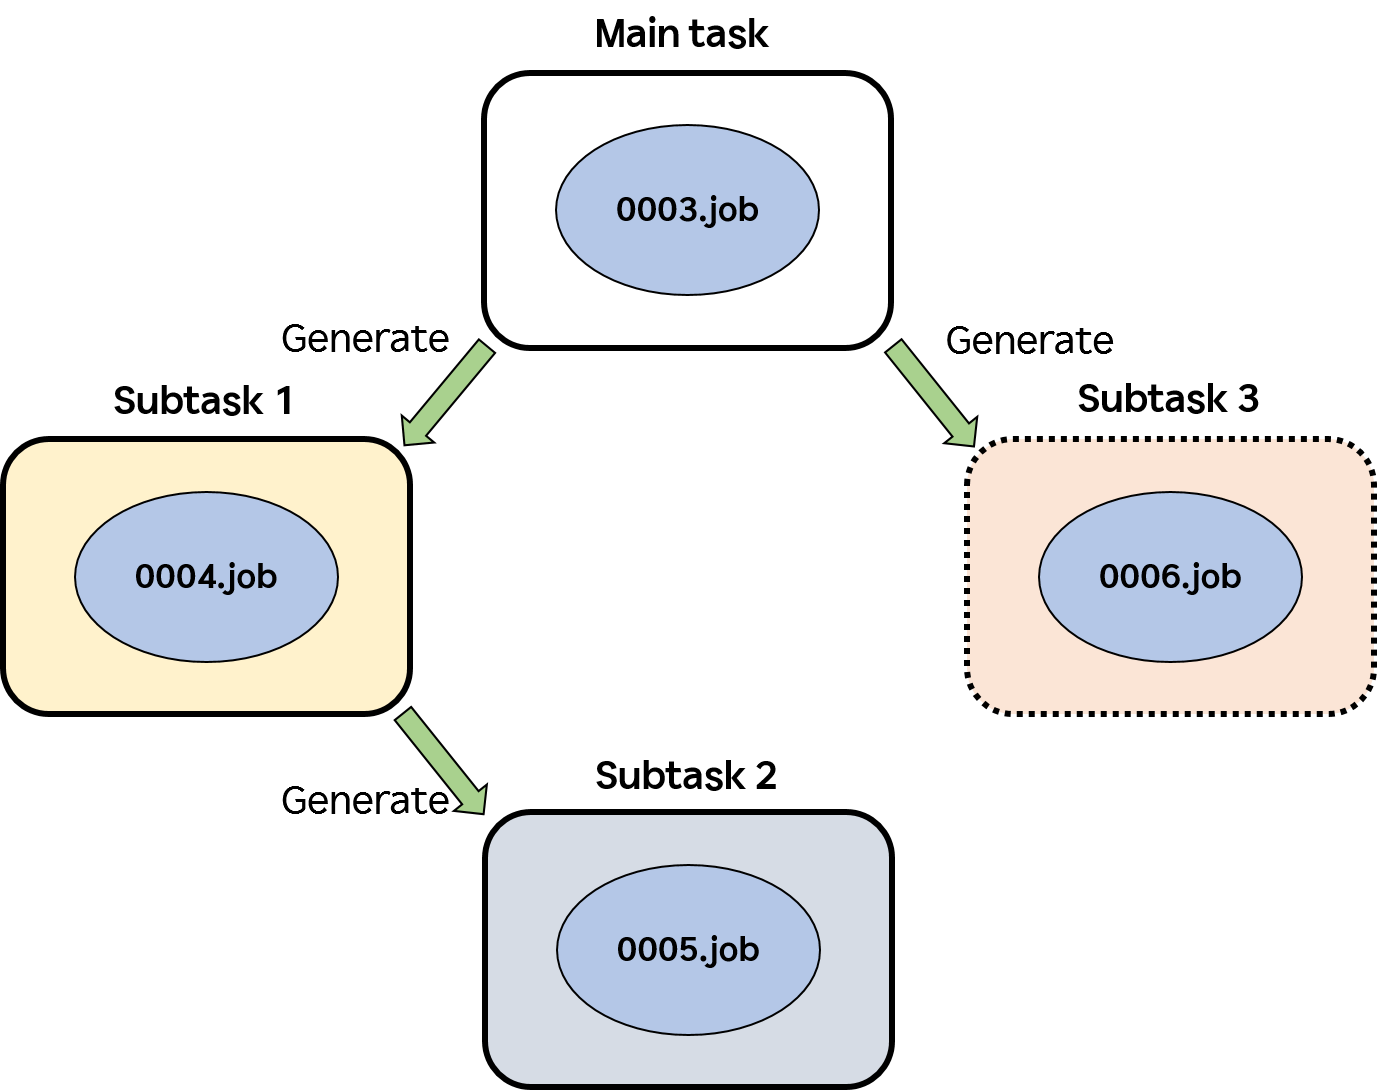
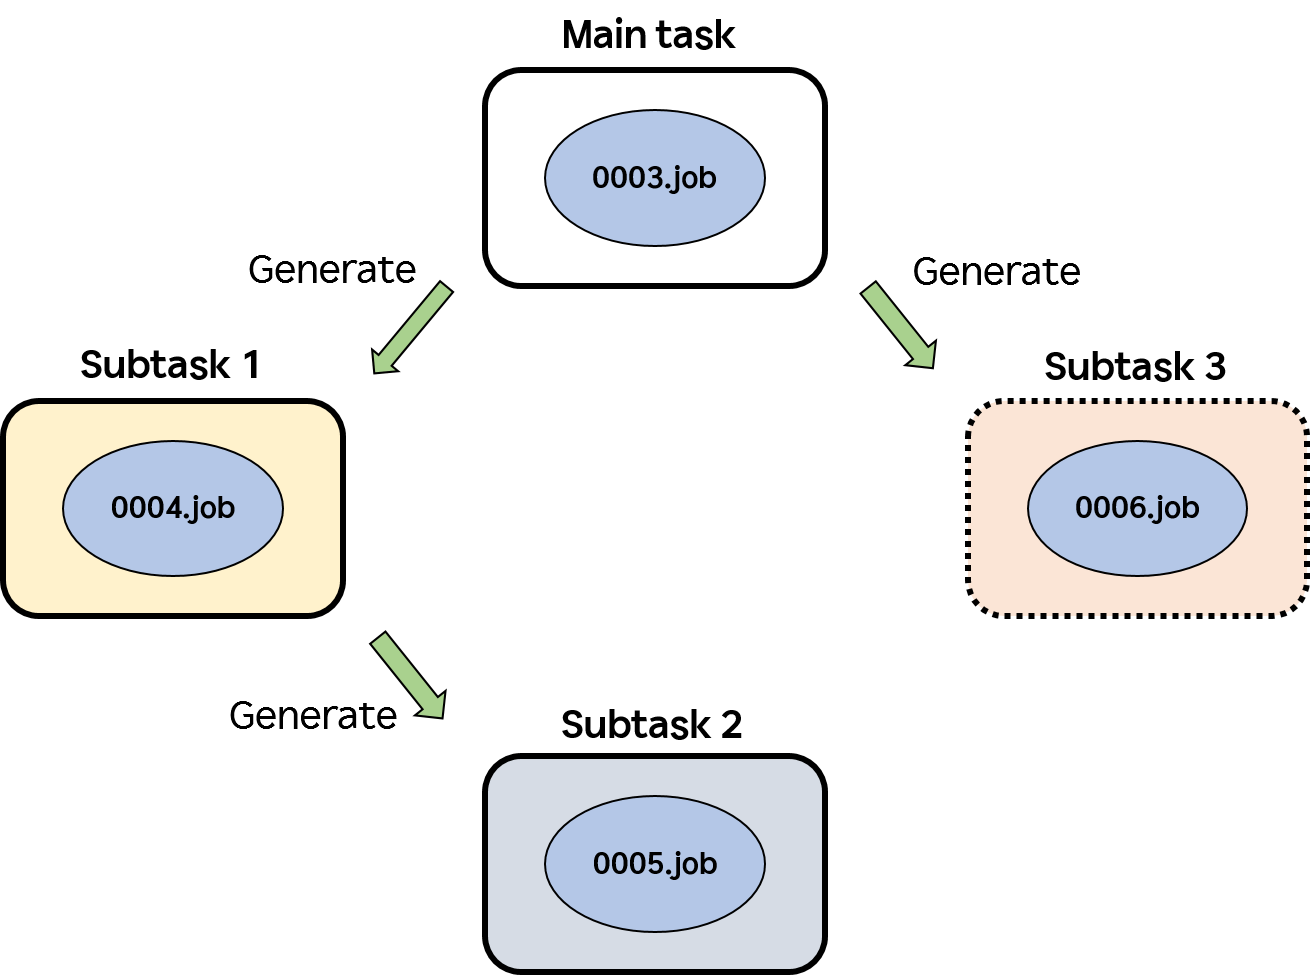
그림크기 수정 및 표 출력 오류 수정

diff --git a/book.md b/book.md
@@ -5,7 +5,7 @@
 [__SOURCE](0-about-this-manual/precautions.md)
 # Precautions
 
-{% include url="https://hrcontentsrelay-bmgae5hdbzapc4bc.koreacentral-01.azurewebsites.net/api/proxy?path=doc-common-pages/en/precautions.md" %}
+{% include file="en/precautions.md" %}
 
 [__SOURCE](1-overview/README.md)
 # 1. Overview
@@ -44,11 +44,8 @@ The terms used in this manual are defined in the table below.
 | Term | Description |
 | --- | --- |
 | Program (job file) | - A job program stored in the controller's non-volatile memory (e.g., 0001.job, 0002.job, 1001.job, etc.). |
-| Main task (Main task) / Sub task 1 ~ 7 (Sub task 1 ~ 7) | - The robot controller's program executor that can load and run job programs.
-- There are 8 tasks in total; each task can load and run only one program at a time. |
-| Main task program / Sub task program | - The specific job program assigned to a task.
-- (Example: If the main task loads 0001.job, the main task program is 0001.job.)
-- A program can be executed only when it is assigned to either the main task or a sub task. |
+| Main task<br>Sub task 1 ~ 7 | -The robot controller's program executor that can load and run job programs.<br>-There are 8 tasks in total; each task can load and run only one program at a time. |
+| Main task program<br>Sub task program | -The specific job program assigned to a task.<br>(Example: If the main task loads 0001.job, the main task program is 0001.job.)<br>-A program can be executed only when it is assigned to either the main task or a sub task. |
 
 [__SOURCE](2-related-function/README.md)
 # 2. Related functions
@@ -57,11 +54,11 @@ The terms used in this manual are defined in the table below.
 # 2.1 Command statements
 
 [__SOURCE](2-related-function/2-1-command-sentence/1-task-start.md)
-# 2.1.1 task start
+# 2.1.1 `task start`
 
 The `task start` statement creates a sub task, assigns a specific job program to it, and starts the sub task program.
 
-The `task start` statement can be entered from **Command Input** → **Other** → **Task**.
+The `task start` statement can be entered from `[Command Input] - [Other] - [Task]`.
 
 ```
 task start,sub=<sub_task_number>,job=<program_number>
@@ -98,7 +95,7 @@ Note: The sub task number to be created must be a different sub task number than
 
 If you attempt to create a sub task with `task start` when that sub task is already created and running, assigning another program to that sub task will result in an error. See the example below.
 
-* <mark style="color:green;">**Error when assigning and starting another program on a running sub task**</mark>
+* <mark style="color:green;">`Error when assigning and starting another program on a running sub task`</mark>
 
 ```
 task start,sub=1,job=11 # subtask 1 was started
@@ -107,7 +104,7 @@ task start,sub=1,job=12
 ```
 
 [__SOURCE](2-related-function/2-1-command-sentence/2-task-wait.md)
-# 2.1.2 task wait
+# 2.1.2 `task wait`
 
 The `task wait` statement waits for a sub task to be destroyed. Normally a sub task is destroyed automatically when an `end` statement in that sub task program is executed. Use this when you want to wait for another sub task to finish before continuing work.
 
@@ -139,7 +136,7 @@ task wait,sub=<sub_task_number>,job=<program_number>
 </table>
 
 [__SOURCE](2-related-function/2-1-command-sentence/3-task-sync.md)
-# 2.1.3 task sync
+# 2.1.3 `task sync`
 
 The `task sync` statement synchronizes tasks. When two or more robots must cooperate, synchronization is essential; `task sync` is useful to align the start points among tasks. It is handy when the main task and sub tasks need to perform work and then start a step simultaneously at a specific point.
 
@@ -155,7 +152,7 @@ task sync,id=<identifier>,no=<number_of_tasks_to_sync>
 | | <p># Sub task 1 program</p><p>print "subtask 1"</p><p>...</p><p><mark style="background-color:green;">task sync,id=1,no=2</mark></p><p>print "sync with maintask"</p><p>(id=1, number of tasks to sync = 2)</p> |
 
 [__SOURCE](2-related-function/2-1-command-sentence/4-task-stop.md)
-# 2.1.4 task stop
+# 2.1.4 `task stop`
 
 The `task stop` statement forcibly stops execution of a sub task.
 
@@ -187,7 +184,7 @@ task stop,sub=<sub_task_number>,job=<program_number>
 </table>
 
 [__SOURCE](2-related-function/2-1-command-sentence/5-task-reset.md)
-# 2.1.5 task reset
+# 2.1.5 `task reset`
 
 The `task reset` statement forcibly destroys a sub task. Normally a sub task is destroyed automatically when an `end` statement in that sub task program is executed.
 
@@ -219,7 +216,7 @@ task reset,sub=<sub_task_number>,job=<program_number>
 </table>
 
 [__SOURCE](2-related-function/2-1-command-sentence/6-axisctrl.md)
-# 2.1.6 axisctrl
+# 2.1.6 `axisctrl`
 
 The `axisctrl` statement specifies whether auxiliary axes should move together with the robot to the target position when a `move` statement is executed.
 
@@ -313,8 +310,8 @@ Task switching is possible using key operations, as shown in the table below. Ta
 
 |            **Operation**            |    **Description**         |
 | :---------------------------------: | ---------------------------- |
-|       \`CTRL`+\`->`key      | Switch to next task          |
-|       \`CTRL`+\`<-`key      | Switch to previous task      |
+|       `[CTRL]+[->]` key      | Switch to next task          |
+|       `[CTRL]+[<-]` key      | Switch to previous task      |
 
 <br>
 [Maintask]
@@ -384,12 +381,12 @@ To step forward or backward all created tasks simultaneously, or only the curren
 [__SOURCE](2-related-function/2-8-start.md)
 # 2.8 Start
 
-To start a task, in AUTO mode enable **MOTOR ON** and **START**, or in MANUAL mode enable **MOTOR ON** and press the `[FWD]` key. Alternatively, subtasks can be started by executing statements independently or by using external signals in conjunction with script commands.
+To start a task, in AUTO mode enable `MOTOR ON` and `START`, or in MANUAL mode enable `MOTOR ON` and press the `[FWD]` key. Alternatively, subtasks can be started by executing statements independently or by using external signals in conjunction with script commands.
 
 [__SOURCE](2-related-function/2-9-stop.md)
 # 2.9 Stop
 
-If the stop button on the teach pendant is pressed or an external stop signal is input during multi-task operation, all tasks will stop.
+If the `stop` button on the teach pendant is pressed or an external stop signal is input during multi-task operation, all tasks will stop.
 
 In addition, executing the `task stop` statement stops the corresponding subtask.
 
@@ -418,8 +415,8 @@ As shown in the figure below, you can drive additional axes independently in eac
 The main task can control both the robot and the assigned additional axes, but the subtask can only control the assigned additional axes.
 
 To use this feature, you need a mechanism set (mechset), mechanism setting, and the axisctrl command. A brief definition is below.
-- Mechanism setting : It is composed of a set of axes (robot axes, additional axes), and one mechanism can be selected with a jog to operate it as a mechanism unit. "[${cont_model}  Robot Controller Operation Manual - Mechanism Setting](https://hrbook-hrc.web.app/#/view/doc-hi6-operation/en-${cont_model}-tp630/7-system/6-initialization/6-mechannism-set?cont_model=${cont_model}) 
-- Mechanism set : The difference between the optional combination of mechanisms and the mechanism is that the steps in the work program are recorded when they are recorded.  "[${cont_model} Robot Controller Operation Manual - Recording Condition](https://hrbook-hrc.web.app/#/view/doc-hi6-operation/en-${cont_model}-tp630/3-programming/2-prog-edit/2-statement-input/3-rec-cond?cont_model=${cont_model})"
+- Mechanism setting : It is composed of a set of axes (robot axes, additional axes), and one mechanism can be selected with a jog to operate it as a mechanism unit. "[${cont_model}  Robot Controller Operation Manual - Mechanism Setting](https://hrbook-hrc.web.app/#/view/doc-hi6-operation/en-tp630/7-system/6-initialization/6-mechannism-set?cont_model=${cont_model}) 
+- Mechanism set : The difference between the optional combination of mechanisms and the mechanism is that the steps in the work program are recorded when they are recorded.  "[${cont_model} Robot Controller Operation Manual - Recording Condition](https://hrbook-hrc.web.app/#/view/doc-hi6-operation/en-tp630/3-programming/2-prog-edit/2-statement-input/3-rec-cond?cont_model=${cont_model})"
 - axisctrl : This is a command regarding the control settings of the additional axis. "[2.1.6 axisctrl](../../2-related-function/2-1-command-sentence/6-axisctrl.md?cont_model=${cont_model})"
 
 [__SOURCE](2-related-function/2-11-multitask-job/2-example.md)

diff --git a/1-overview/1-2-term-explan.md b/1-overview/1-2-term-explan.md
@@ -7,8 +7,5 @@ The terms used in this manual are defined in the table below.
 | Term | Description |
 | --- | --- |
 | Program (job file) | - A job program stored in the controller's non-volatile memory (e.g., 0001.job, 0002.job, 1001.job, etc.). |
-| Main task (Main task) / Sub task 1 ~ 7 (Sub task 1 ~ 7) | - The robot controller's program executor that can load and run job programs.
-- There are 8 tasks in total; each task can load and run only one program at a time. |
-| Main task program / Sub task program | - The specific job program assigned to a task.
-- (Example: If the main task loads 0001.job, the main task program is 0001.job.)
-- A program can be executed only when it is assigned to either the main task or a sub task. |
+| Main task<br>Sub task 1 ~ 7 | -The robot controller's program executor that can load and run job programs.<br>-There are 8 tasks in total; each task can load and run only one program at a time. |
+| Main task program<br>Sub task program | -The specific job program assigned to a task.<br>(Example: If the main task loads 0001.job, the main task program is 0001.job.)<br>-A program can be executed only when it is assigned to either the main task or a sub task. |
